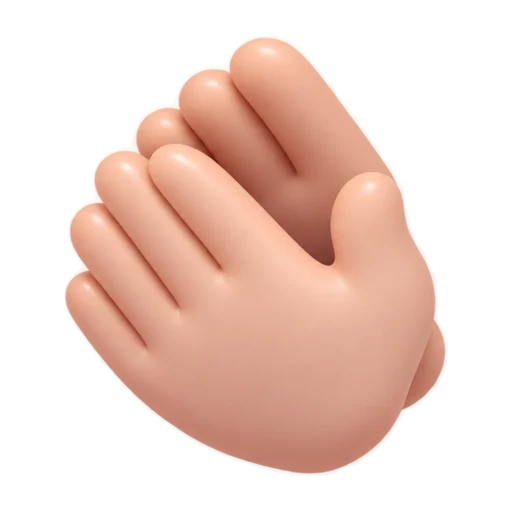
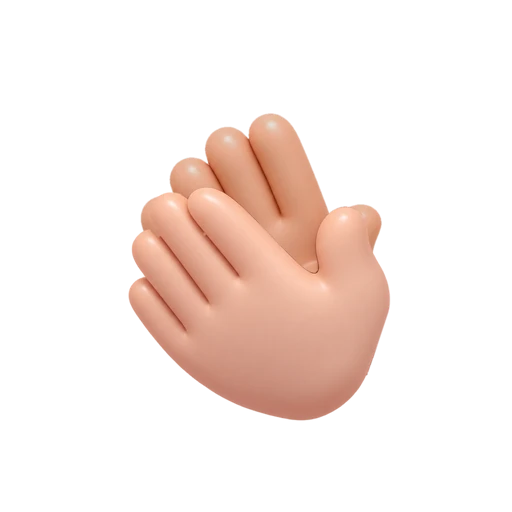
feat(p-11, p-01, o-60): 박수, 초대장, 완료 체크 움직이는 그림 + spec, design 갱신 (#231)
* feat(p-01, p-11): 초대장, 박수 그림에 움직이는 그림 켜기(파일은 다음 커밋)

- Illustration motion: assets/motion에 같은 이름 파일이 생기면 한 번 재생, 없으면 지금처럼 정지 그림

Claude-Session: https://claude.ai/code/session_011XUPzQwUTy2QBAmKAmrj3h

* feat(p-11, p-01, o-60): 박수, 초대장, 완료 체크 움직이는 그림 + 새 박수 정지 그림 + spec, design 갱신

- assets/motion: scene-clap(두 손이 두 번 맞부딪힘), scene-invite(편지가 봉투에서 올라옴), done-check(원판이 튀고 체크가 그려짐), 한 번 재생
- illustrations/scene-clap: 뒷손을 다시 뽑은 정지 그림(움직임 끝 장면과 같음)
- 문서: Illustrations motion 표, DESIGN 만드는 법, InfoPlate, SceneMedia, spec 17 O-60, spec 18 P-01

Claude-Session: https://claude.ai/code/session_011XUPzQwUTy2QBAmKAmrj3h

---------

diff --git a/packages/app/src/features/pairing/pages/p-01-join-start.tsx b/packages/app/src/features/pairing/pages/p-01-join-start.tsx
@@ -100,7 +100,7 @@ export function P01JoinStart() {
     <QuestionLayout
       hero={
         hasIllustration('scene-invite') ? (
-          <Illustration name="scene-invite" className="hg-sceneart hg-sceneart--tall" />
+          <Illustration name="scene-invite" className="hg-sceneart hg-sceneart--tall" motion />
         ) : undefined
       }
       title={p?.inviter ? copy.invited(p.inviter) : copy.join}

diff --git a/packages/app/src/features/pairing/pages/p-11-push.tsx b/packages/app/src/features/pairing/pages/p-11-push.tsx
@@ -51,7 +51,7 @@ export function P11Push() {
     <QuestionLayout
       hero={
         hasIllustration('scene-clap') ? (
-          <Illustration name="scene-clap" className="hg-sceneart" />
+          <Illustration name="scene-clap" className="hg-sceneart" motion />
         ) : undefined
       }
       title={copy.pushTitle}

diff --git a/docs/design/components/InfoPlate.md b/docs/design/components/InfoPlate.md
@@ -9,4 +9,4 @@
 
 ## DoneMark
 
-완료 표시. 2026-11-05부터 3D 완료 그림(`done-check`, 팔았어요 F-04b는 `art="done-sold"`, W-02 끝은 축하 `art="celebrate"`)을 96px `hg-doneart`로 보여 줌(‘동작 줄이기’가 아니면 한 번 톡 커짐). 움직이는 그림(`assets/motion/{이름}.webp`)이 있으면 그것을 씀(`Illustration motion`, 지금은 축하 폭죽 하나): 원뿔이 움츠렸다 튀고 리본이 펼쳐지며 조각이 터져 나와 제자리에 앉는 1.35초를 한 번 재생하고 마지막 장면(= 정지 그림)에서 멈춤, 톡 커짐은 끔(`hg-motion`). ‘동작 줄이기’면 `<picture>`가 정지 그림을 고름(2026-11-05). 그림 파일이 없을 때만 예전 모양(`hg-donemark`): 완료 화면 제목 아래 가운데 72px 원(`brand-soft`) + 36px 체크(`brand`). ‘동작 줄이기’가 아니면 한 번 톡 커짐. 꾸밈이라 화면 읽기에서 숨김. 쓰는 곳: W-04 끝, P-11 대기.
+완료 표시. 2026-11-05부터 3D 완료 그림(`done-check`, 팔았어요 F-04b는 `art="done-sold"`, W-02 끝은 축하 `art="celebrate"`)을 96px `hg-doneart`로 보여 줌(‘동작 줄이기’가 아니면 한 번 톡 커짐). 움직이는 그림(`assets/motion/{이름}.webp`)이 있으면 그것을 씀(`Illustration motion`, W-02 끝 축하 폭죽, O-60 완료 체크): 원뿔이 움츠렸다 튀고 리본이 펼쳐지며 조각이 터져 나와 제자리에 앉는 1.35초를 한 번 재생하고 마지막 장면(= 정지 그림)에서 멈춤, 톡 커짐은 끔(`hg-motion`). ‘동작 줄이기’면 `<picture>`가 정지 그림을 고름(2026-11-05). 그림 파일이 없을 때만 예전 모양(`hg-donemark`): 완료 화면 제목 아래 가운데 72px 원(`brand-soft`) + 36px 체크(`brand`). ‘동작 줄이기’가 아니면 한 번 톡 커짐. 꾸밈이라 화면 읽기에서 숨김. 쓰는 곳: W-04 끝, P-11 대기.

diff --git a/docs/design/assets/Illustrations.md b/docs/design/assets/Illustrations.md
@@ -42,6 +42,7 @@
 | | `scene-clap` · `scene-invite`(3:4, 576×768) | 512 | 장면: P-11 합류 완료 / P-01 초대받은 사람 첫 화면 |
 | | `celebrate` | 512 | 축하: W-02 끝(월급 체크 다 했어요, 2026-11-05). 목표 달성은 목표 사진 |
 | `motion/` | `celebrate` | 192, 41장 30fps, 한 번 재생 | 움직이는 그림(`Illustration motion`): W-02 끝 폭죽 터짐. 같은 이름 정지 그림의 조각(원뿔, 리본, 조각 4)만 움직이고 마지막 장면은 정지 그림과 같음. 만드는 법은 아래 8번 |
+| | `scene-clap` · `scene-invite` · `done-check` | 240(초대장 240×320, 체크 192), 37~40장 30fps, 한 번 재생 | P-11 박수(두 손이 두 번 맞부딪힘), P-01 초대장(빈 봉투가 튀고 편지가 쑥 올라옴), O-60 완료(원판이 튀고 체크가 그려짐) (2026-11-05). 가려 있던 부분(뒷손, 빈 봉투 안쪽, 빈 원판)만 AI로 채우고 보이는 부분은 정지 그림 그대로. `scene-clap` 정지 그림은 이때 뒷손을 다시 뽑은 그림으로 바꿈(손가락 4 + 엄지, 손목 없음) |
 | `goal-photos/` | `{템플릿}-01` 21장 | 1200 | 목표 사진(→ 아래 ‘목표 사진 주제’). 직접 만든 목표는 없음(회색 기본 자리 + 깃발) |
 | `icons3d/` | `line-fixed` · `line-living` · `line-allowance` · `line-custom` | 160 | 월급 체크리스트 쓰는 돈 줄(고정지출 달력, 생활비 장바구니, 용돈 동전, 직접 추가 지갑) |
 | | `asset-cash` · `asset-deposit` · `asset-invest` · `asset-pension` · `asset-insurance` · `asset-real-estate` · `asset-car` · `asset-credit` · `asset-installment` · `asset-student` · `asset-other-loan` · `asset-personal` | 160 | 자산·부채 묶음(F-01 빈 상태, F-03a 묶음 타일, `assetIcon3d`). 현금성은 `asset-cash`(밝은 민트 지갑, 2026-11-05), 청약·주택대출은 `asset-real-estate` |

diff --git a/docs/spec/18-partner-join.md b/docs/spec/18-partner-join.md
@@ -48,7 +48,7 @@
 
 A-07(로그인·가입)의 진입 화면. 링크 분기·합류 불가 안내는 A-07 그대로.
 
-- 배치(2026-11-03): 다른 질문 화면처럼 제목이 위, 코드는 제목 바로 아래 회색 상자(O-07 코드 상자와 같은 모양), 주 버튼은 아래 끝. 그림(1번)은 제목 위 주인공 자리의 3D 열린 봉투(`scene-invite`, 2026-11-05). 코드 직접 입력도 제목 위 + 코드 칸 바로 아래. ‘이미 시작한 기록이 있어요’도 제목 위, 아래 바에 회색 보조 ‘취소’ + 주 버튼 ‘합류하기’ 반씩
+- 배치(2026-11-03): 다른 질문 화면처럼 제목이 위, 코드는 제목 바로 아래 회색 상자(O-07 코드 상자와 같은 모양), 주 버튼은 아래 끝. 그림(1번)은 제목 위 주인공 자리의 3D 열린 봉투(`scene-invite`, 2026-11-05, 들어올 때 편지가 봉투에서 올라오는 움직임 한 번, 동작 줄이기면 정지). 코드 직접 입력도 제목 위 + 코드 칸 바로 아래. ‘이미 시작한 기록이 있어요’도 제목 위, 아래 바에 회색 보조 ‘취소’ + 주 버튼 ‘합류하기’ 반씩
 
 > 화면 그림: P-01 합류 시작, 데스크톱 앱과 모바일 앱 (그림은 기획서 페이지 사본에 있어요. 구현할 때 이 문서의 요소 표가 기준이에요.)
 

diff --git a/docs/design/components/SceneMedia.md b/docs/design/components/SceneMedia.md
@@ -7,6 +7,6 @@
 - 비율: 기본 1:1(`hg-scene`), P-01만 3:4(`hg-scene--tall`). 너비는 화면이 정함(최대 320px).
 - 칸에 테두리, 바탕, 모서리 둥글림, 그림자 없음. 글자를 겹치지 않음.
 
-- 2026-11-05 장면 3D 그림이 생김: P-01은 `scene-invite`(3:4, 열린 봉투), P-11은 `scene-clap`(박수)를 QuestionLayout 주인공 자리(`hero`)에 `Illustration` + `hg-sceneart`(120px, 초대는 `--tall` 120×160)로 넣음. SceneMedia 빈 칸은 그림이 없는 화면에만 남음.
+- 2026-11-05 장면 3D 그림이 생김: P-01은 `scene-invite`(3:4, 열린 봉투), P-11은 `scene-clap`(박수, 2026-11-05 두 장 다 움직이는 그림 `Illustration motion`: 한 번 재생, 동작 줄이기면 정지)를 QuestionLayout 주인공 자리(`hero`)에 `Illustration` + `hg-sceneart`(120px, 초대는 `--tall` 120×160)로 넣음. SceneMedia 빈 칸은 그림이 없는 화면에만 남음.
 
 쓰는 곳: P-11 배우자 합류 완료(`scene-clap`), P-01 초대받은 사람 첫 화면(`scene-invite`, 3:4), H-T1 결혼일 전환 축하(화면이 생기면 `scene-clap`). A-02 로그인 첫 화면은 이 자리에 영어 워드마크(`Wordmark`)를 넣어 SceneMedia를 쓰지 않음.

diff --git a/docs/spec/17-onboarding-2.md b/docs/spec/17-onboarding-2.md
@@ -83,7 +83,7 @@ O-30 월급 관리 방식 → O-31 월급 → O-32 월급날 → O-60 준비 끝
 
 | 번호 | 요소 | 내용·문구 | 동작·규칙 |
 | --- | --- | --- | --- |
-| 1 | 완료 표시 | DoneMark(2026-11-05 3D 완료 그림 `done-check`) | 그림 자리 |
+| 1 | 완료 표시 | DoneMark(2026-11-05 3D 완료 그림 `done-check`, 원판이 튀고 체크가 그려지는 움직임 한 번) | 그림 자리. 동작 줄이기면 정지 |
 | 2 | 제목·보조 | “{나}님, 준비가 끝났어요” / “이제 홈에서 하나씩 해 볼게요” [확인 필요] | 가운데 |
 | 3 | 해 둔 것 | “월급을 추천값으로 나눠 뒀어요” / “{월급날} 월급 체크리스트를 만들었어요” / “목표 금액은 홈에서 정해요” [확인 필요] | 아이콘 + 한 줄, 회색 판. 월급이 없으면 “월급이 생기면 홈에서 알려 주세요” + 목표 줄 |
 | 4 | 주 버튼 | “홈으로 가기” [확인 필요] | 온보딩 끝 → 홈 |
